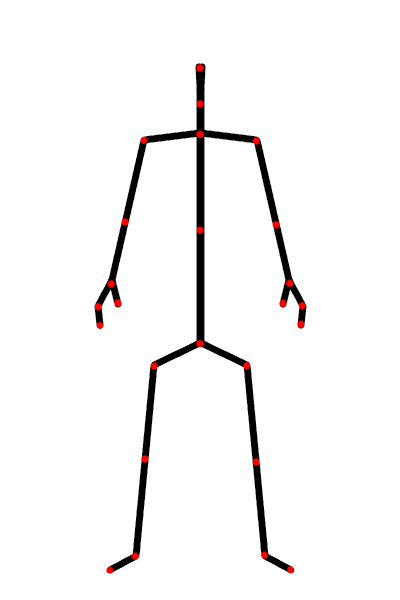
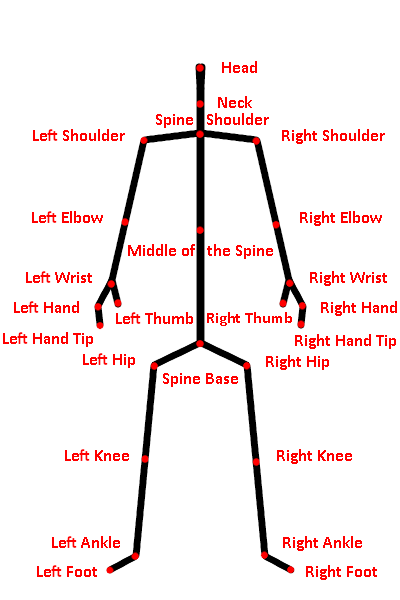
Created joint selection

diff --git a/windows/kinect_joint_selection_dialog.py b/windows/kinect_joint_selection_dialog.py
@@ -1,12 +1,20 @@
 from PyQt6.QtGui import QPixmap
-from PyQt6.QtWidgets import QDialog, QDialogButtonBox, QLabel, QVBoxLayout, QCheckBox, QWidget
+from PyQt6.QtWidgets import QDialog, QDialogButtonBox, QLabel, QVBoxLayout, QCheckBox, QWidget, QHBoxLayout
 from PyQt6.QtCore import Qt
 
 class KinectJointSelectionDialog(QDialog):
 
-    def __init__(self, joint_translation_map, joint_selection_map):
+    def __init__(self, joint_translation_map, joint_selection_map, bones_translation_map):
         self.joint_translation_map = joint_translation_map
         self.joint_selection_map = joint_selection_map
+        self.bones_translation_map = bones_translation_map
+        self.bone_joints_map = {}
+        for bone_name, bone_parts in self.bones_translation_map.items():
+            joints = set()
+            for bone_part in bone_parts:
+                for joint in bone_part:
+                    joints.add(joint)
+            self.bone_joints_map[bone_name] = joints
         self._joint_offset_map = {
             "Spine base": (200,343),
             "Left shoulder": (144,141),
@@ -58,11 +66,15 @@ class KinectJointSelectionDialog(QDialog):
             move_x, move_y = self._joint_offset_map[joint_name]
             move_x = move_x + self.offset[0]
             move_y = move_y + self.offset[1]
-            check_box = QCheckBox(joint_name, self.canvas)
+            check_box = QCheckBox(self.canvas)
             check_box.move(move_x, move_y)
             check_box.setChecked(is_checked)
             check_box.setStyleSheet(
                 "QCheckBox { color: red;}"
+            )
+            check_box.stateChanged.connect(
+                lambda checked, value=joint_value:
+                    self.on_joint_toggled(value, checked)
             )
             check_box.adjustSize()
             check_box.raise_()
@@ -71,21 +83,66 @@ class KinectJointSelectionDialog(QDialog):
         QBtn = (
             QDialogButtonBox.StandardButton.Ok | QDialogButtonBox.StandardButton.Cancel
         )
-
+        bones_widget = QWidget()
+        self.bones_layout = QVBoxLayout(bones_widget)
+        self.bones_checkboxes = {}
+        for bone_name, bone_value in bones_translation_map.items():
+            check_box = QCheckBox(bone_name)
+            self.bones_checkboxes[bone_name] = check_box
+            check_box.stateChanged.connect(
+                lambda checked, value=bone_name:
+                    self.on_bone_toggled(value, checked)
+            )
+            self.bones_layout.addWidget(check_box)
+        self.update_bone_checkboxes()
+        self.bones_layout.addStretch()
         self.buttonBox = QDialogButtonBox(QBtn)
         self.buttonBox.accepted.connect(self.accept)
         self.buttonBox.rejected.connect(self.reject)
 
+        content_layout = QHBoxLayout()
+        content_layout.addWidget(self.canvas)
+        content_layout.addWidget(bones_widget)
+
         layout = QVBoxLayout()
-        message = QLabel("Check joints that need to be registered")
-        layout.addWidget(message)
-        layout.addWidget(self.canvas)
+        layout.addLayout(content_layout)
         layout.addWidget(self.buttonBox)
         self.setLayout(layout)
+
+    def on_joint_toggled(self, joint_value, checked):
+        self.joint_selection_map[joint_value] = (checked > 0)
+
+        self.update_bone_checkboxes()
+    # TODO add bone toggled function
+    def update_bone_checkboxes(self):
+        for bone_name, joints in self.bone_joints_map.items():
+            is_checked = True
+            for joint in joints:
+                if not self.joint_selection_map[joint]:
+                    is_checked = False
+            bone_checkbox = self.bones_checkboxes[bone_name]
+            bone_checkbox.blockSignals(True)
+            bone_checkbox.setChecked(is_checked)
+            bone_checkbox.blockSignals(False)
+    def on_bone_toggled(self, bone_name, checked):
+        is_checked = (checked > 0)
+        joints = self.bone_joints_map[bone_name]
+        for joint_name, joint in self.joint_translation_map.items():
+            if joint not in joints:
+                continue
+            self.joint_selection_map[joint_name] = is_checked
+
+            joint_checkbox = self.joint_checkboxes[joint_name]
+
+            joint_checkbox.blockSignals(True)
+            joint_checkbox.setChecked(is_checked)
+            joint_checkbox.blockSignals(False)
+
     def get_joint_selection_map(self):
         joint_selection_map = {}
-        for name,checkbox in self.joint_checkboxes.items():
-            joint_tag = self.joint_translation_map[name]
-            joint_selection_map[joint_tag] = checkbox.isChecked()
+        for joint_name, checkbox in self.joint_checkboxes.items():
+            joint_value = self.joint_translation_map[joint_name]
+            joint_selection_map[joint_value] = checkbox.isChecked()
         self.joint_selection_map = joint_selection_map
-        return joint_selection_map
+        return self.joint_selection_map
+

diff --git a/movement/kinect_bones.py b/movement/kinect_bones.py
@@ -13,6 +13,8 @@ class KinectBones:
     LEFT_ARM = [
         (KinectJoints.SPINE_SHOULDER, KinectJoints.SHOULDER_LEFT),
         (KinectJoints.SHOULDER_LEFT, KinectJoints.ELBOW_LEFT),
+    ]
+    LEFT_HAND = [
         (KinectJoints.ELBOW_LEFT, KinectJoints.WRIST_LEFT),
         (KinectJoints.WRIST_LEFT, KinectJoints.HAND_LEFT),
         (KinectJoints.HAND_LEFT, KinectJoints.HAND_TIP_LEFT),
@@ -22,27 +24,32 @@ class KinectBones:
     RIGHT_ARM = [
         (KinectJoints.SPINE_SHOULDER, KinectJoints.SHOULDER_RIGHT),
         (KinectJoints.SHOULDER_RIGHT, KinectJoints.ELBOW_RIGHT),
+
+    ]
+    RIGHT_HAND = [
         (KinectJoints.ELBOW_RIGHT, KinectJoints.WRIST_RIGHT),
         (KinectJoints.WRIST_RIGHT, KinectJoints.HAND_RIGHT),
         (KinectJoints.HAND_RIGHT, KinectJoints.HAND_TIP_RIGHT),
         (KinectJoints.WRIST_RIGHT, KinectJoints.THUMB_RIGHT),
     ]
-
     LEFT_LEG = [
         (KinectJoints.SPINE_BASE, KinectJoints.HIP_LEFT),
         (KinectJoints.HIP_LEFT, KinectJoints.KNEE_LEFT),
+    ]
+
+    LEFT_FOOT = [
         (KinectJoints.KNEE_LEFT, KinectJoints.ANKLE_LEFT),
         (KinectJoints.ANKLE_LEFT, KinectJoints.FOOT_LEFT),
     ]
-
     RIGHT_LEG = [
         (KinectJoints.SPINE_BASE, KinectJoints.HIP_RIGHT),
         (KinectJoints.HIP_RIGHT, KinectJoints.KNEE_RIGHT),
+    ]
+    RIGHT_FOOT = [
         (KinectJoints.KNEE_RIGHT, KinectJoints.ANKLE_RIGHT),
         (KinectJoints.ANKLE_RIGHT, KinectJoints.FOOT_RIGHT),
     ]
-
-    ALL = SPINE + LEFT_ARM + RIGHT_ARM + LEFT_LEG + RIGHT_LEG
+    ALL = SPINE + LEFT_ARM + LEFT_HAND + RIGHT_ARM + RIGHT_HAND + LEFT_LEG + LEFT_FOOT +  RIGHT_LEG + RIGHT_FOOT
 
     @staticmethod
     def get_bones():

diff --git a/movement/kinect_skeleton_model.py b/movement/kinect_skeleton_model.py
@@ -60,6 +60,17 @@ class KinectSkeletonModel(ISkeletonModel):
             "Right ankle": KinectJoints.ANKLE_RIGHT,
             "Right foot": KinectJoints.FOOT_RIGHT
         }
+        self._bones_translation_map = {
+            "Spine": KinectBones.SPINE,
+            "Left arm": KinectBones.LEFT_ARM,
+            "Left hand": KinectBones.LEFT_HAND,
+            "Right arm": KinectBones.RIGHT_ARM,
+            "Right hand": KinectBones.RIGHT_HAND,
+            "Left leg": KinectBones.LEFT_LEG,
+            "Left foot": KinectBones.LEFT_FOOT,
+            "Right leg": KinectBones.RIGHT_LEG,
+            "Right foot": KinectBones.RIGHT_FOOT
+        }
         self._joint_names_map = {value: name for name, value in self._joint_map.items()}
     def generate_joint_selection_map(self):
         joints = self.get_joints()
@@ -69,7 +80,6 @@ class KinectSkeletonModel(ISkeletonModel):
         return joint_selection_map
     def get_joints(self):
         return KinectJoints.get_joints()
-
     def get_joint_names(self):
         return self._joint_map.keys()
     def get_joint_translation_map(self):
@@ -79,6 +89,7 @@ class KinectSkeletonModel(ISkeletonModel):
 
     def get_bones(self):
         return KinectBones.get_bones()
-
+    def get_bones_translation_map(self):
+        return self._bones_translation_map
     def get_angles(self):
         return KinectAngles.get_angles()
